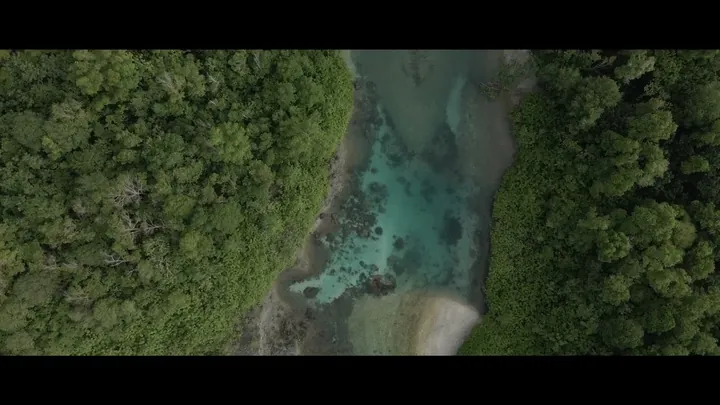
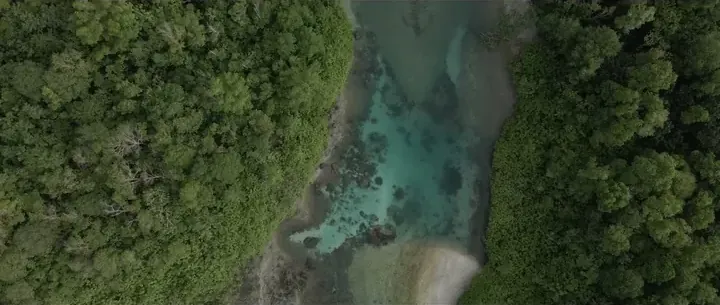
Work section: newest first, matching square thumbnails, even grid
- Cards ordered by date, newest first
- All thumbnails cropped to the same square shape (crop centred on the
  subject; black video bars trimmed from the Victor's Rag still)
- CSS grid so every card is the same height with even 30px gaps
  (3 columns on desktop, 2 on tablet, 1 on phones)

Claude-Session: https://claude.ai/code/session_017hPfgQmK6aBXZxuKyT7LRZ

diff --git a/docs/index.html b/docs/index.html
@@ -199,80 +199,61 @@
             </div>
         </div>
 
-		<div class="row">
-            <div class="col-lg-4 col-md-6 col-sm-6">
-				<div class="blog-item card mb-4 mb-lg-0 border-0">
-					<a href="https://www.tompkinssquare.com/max_ochs_hooray.html" target="_blank" rel="noopener"> <img src="images/work/hooray.webp" width="480" height="480" loading="lazy" decoding="async" alt="Hooray For Another Day album cover" class="img-fluid w-100"> </a>
-					<div class="blog-item-content p-4">
-						<div class="blog-meta mb-2">
-							<span><i class="ti-time mr-2"></i>20 September 2023</span>
-						</div>
-						<h4 class="mt-2 mb-3"><a  href="https://www.tompkinssquare.com/max_ochs_hooray.html" target="_blank" rel="noopener"> Hooray For Another Day</a></h4>
-					</div>
-				</div>
-			</div>
-            <div class="col-lg-4 col-md-6 col-sm-6">
-				<div class="blog-item card mb-4 mb-lg-0 border-0">
-					<a href="https://www.youtube.com/watch?v=dTDibrHiliY" target="_blank" rel="noopener"><img src="images/work/motherless.webp" width="720" height="720" loading="lazy" decoding="async" alt="Drawing of Max Ochs playing guitar" class="img-fluid w-100"></a>
-					<div class="blog-item-content p-4">
-						<div class="blog-meta mb-2">
-							<span><i class="ti-time mr-2"></i>17 December 2016</span>
-							<a>filmed by JP Saladin</a>
-						</div>
-
-						<h4 class="mt-2 mb-3"><a href="https://www.youtube.com/watch?v=dTDibrHiliY" target="_blank" rel="noopener">Motherless Earth</a></h4>
-					</div>
-				</div>
-			</div>
-			<div class="col-lg-4 col-md-6 col-sm-6">
-				<div class="blog-item card mb-4 mb-lg-0 border-0">
-					<a href="https://www.youtube.com/watch?v=QZ7wP932ip0" target="_blank" rel="noopener"> <img src="images/work/surf.webp" width="720" height="405" loading="lazy" decoding="async" alt="Still from Victor's Rag video" class="img-fluid w-100"> </a>
-					<div class="blog-item-content p-4">
-						<div class="blog-meta mb-2">
-							<span><i class="ti-time mr-2"></i>20 September 2023</span>
-						</div>
-						<h4 class="mt-2 mb-3"><a  href="https://www.youtube.com/watch?v=QZ7wP932ip0" target="_blank" rel="noopener"> Max Ochs Victor's Rag</a></h4>
-					</div>
-				</div>
-			</div>
-            <div class="col-lg-4 col-md-6 col-sm-6">
-				<div class="blog-item card mb-4 mb-lg-0 border-0">
-					<a href="https://www.youtube.com/watch?v=qj9S7ztZCXg" target="_blank" rel="noopener"> <img src="images/work/america.webp" width="220" height="165" loading="lazy" decoding="async" alt="Max Ochs in front of an American flag" class="img-fluid w-100"> </a>
-					<div class="blog-item-content p-4">
-						<div class="blog-meta mb-2">
-							<span><i class="ti-time mr-2"></i>9 July 2022</span>
-						</div>
-						<h4 class="mt-2 mb-3"><a  href="https://www.youtube.com/watch?v=qj9S7ztZCXg" target="_blank" rel="noopener"> I Hear America Singing </a></h4>
-					</div>
-				</div>
-			</div>
-			<div class="col-lg-4 col-md-6 col-sm-6">
-				<div class="blog-item card mb-4 mb-lg-0 border-0">
-					<a href="https://frankhudson.org/2019/07/16/dont-die-max-ochs-prayer/" target="_blank" rel="noopener"><img src="images/work/dontdie.webp" width="480" height="408" loading="lazy" decoding="async" alt="Max Ochs performing with guitar" class="img-fluid w-100"></a>
-					<div class="blog-item-content p-4">
-						<div class="blog-meta mb-2">
-							<span><i class="ti-time mr-2"></i>16 July 2019</span>
-							<a>by Frank Hudson</a>
-						</div>
-
-						<h4 class="mt-2 mb-3"><a href="https://frankhudson.org/2019/07/16/dont-die-max-ochs-prayer/" target="_blank" rel="noopener">Don't Die</a></h4>
-					</div>
-				</div>
-			</div>
-            <div class="col-lg-4 col-md-6 col-sm-6">
-				<div class="blog-item card mb-4 mb-lg-0 border-0">
-					<a href="https://newversenews.blogspot.com/2015/08/dont-jewish.html" target="_blank" rel="noopener"> <img src="images/work/dontjewish.webp" width="720" height="464" loading="lazy" decoding="async" alt="Illustration accompanying the poem Don't Jewish" class="img-fluid w-100"> </a>
-					<div class="blog-item-content p-4">
-						<div class="blog-meta mb-2">
-							<span><i class="ti-time mr-2"></i>23 August 2015</span>
-							<a>by The New Verse News</a>
-						</div>
-
-						<h4 class="mt-2 mb-3"><a href="https://newversenews.blogspot.com/2015/08/dont-jewish.html" target="_blank" rel="noopener">DON'T JEWISH</a></h4>
-					</div>
-				</div>
-			</div>
-			
+		<div class="work-grid">
+            <div class="work-cell">
+                <div class="blog-item card work-card border-0 h-100">
+                    <a href="https://www.tompkinssquare.com/max_ochs_hooray.html" target="_blank" rel="noopener"><img class="work-img" src="images/work/hooray.webp" width="480" height="480" loading="lazy" decoding="async" alt="Hooray For Another Day album cover"></a>
+                    <div class="blog-item-content p-4">
+                        <div class="blog-meta mb-2"><span><i class="ti-time mr-2"></i>20 September 2023</span></div>
+                        <h4 class="mt-2 mb-0"><a href="https://www.tompkinssquare.com/max_ochs_hooray.html" target="_blank" rel="noopener">Hooray For Another Day</a></h4>
+                    </div>
+                </div>
+            </div>
+            <div class="work-cell">
+                <div class="blog-item card work-card border-0 h-100">
+                    <a href="https://www.youtube.com/watch?v=QZ7wP932ip0" target="_blank" rel="noopener"><img class="work-img" src="images/work/surf.webp" width="720" height="305" loading="lazy" decoding="async" alt="Still from Victor's Rag video"></a>
+                    <div class="blog-item-content p-4">
+                        <div class="blog-meta mb-2"><span><i class="ti-time mr-2"></i>20 September 2023</span></div>
+                        <h4 class="mt-2 mb-0"><a href="https://www.youtube.com/watch?v=QZ7wP932ip0" target="_blank" rel="noopener">Max Ochs Victor's Rag</a></h4>
+                    </div>
+                </div>
+            </div>
+            <div class="work-cell">
+                <div class="blog-item card work-card border-0 h-100">
+                    <a href="https://www.youtube.com/watch?v=qj9S7ztZCXg" target="_blank" rel="noopener"><img class="work-img" src="images/work/america.webp" width="220" height="165" loading="lazy" decoding="async" alt="Max Ochs in front of an American flag" style="object-position: 85% center;"></a>
+                    <div class="blog-item-content p-4">
+                        <div class="blog-meta mb-2"><span><i class="ti-time mr-2"></i>9 July 2022</span></div>
+                        <h4 class="mt-2 mb-0"><a href="https://www.youtube.com/watch?v=qj9S7ztZCXg" target="_blank" rel="noopener">I Hear America Singing</a></h4>
+                    </div>
+                </div>
+            </div>
+            <div class="work-cell">
+                <div class="blog-item card work-card border-0 h-100">
+                    <a href="https://frankhudson.org/2019/07/16/dont-die-max-ochs-prayer/" target="_blank" rel="noopener"><img class="work-img" src="images/work/dontdie.webp" width="480" height="408" loading="lazy" decoding="async" alt="Max Ochs performing with guitar"></a>
+                    <div class="blog-item-content p-4">
+                        <div class="blog-meta mb-2"><span><i class="ti-time mr-2"></i>16 July 2019</span> <span class="work-credit">&middot; by Frank Hudson</span></div>
+                        <h4 class="mt-2 mb-0"><a href="https://frankhudson.org/2019/07/16/dont-die-max-ochs-prayer/" target="_blank" rel="noopener">Don't Die</a></h4>
+                    </div>
+                </div>
+            </div>
+            <div class="work-cell">
+                <div class="blog-item card work-card border-0 h-100">
+                    <a href="https://www.youtube.com/watch?v=dTDibrHiliY" target="_blank" rel="noopener"><img class="work-img" src="images/work/motherless.webp" width="720" height="720" loading="lazy" decoding="async" alt="Drawing of Max Ochs playing guitar"></a>
+                    <div class="blog-item-content p-4">
+                        <div class="blog-meta mb-2"><span><i class="ti-time mr-2"></i>17 December 2016</span> <span class="work-credit">&middot; filmed by JP Saladin</span></div>
+                        <h4 class="mt-2 mb-0"><a href="https://www.youtube.com/watch?v=dTDibrHiliY" target="_blank" rel="noopener">Motherless Earth</a></h4>
+                    </div>
+                </div>
+            </div>
+            <div class="work-cell">
+                <div class="blog-item card work-card border-0 h-100">
+                    <a href="https://newversenews.blogspot.com/2015/08/dont-jewish.html" target="_blank" rel="noopener"><img class="work-img" src="images/work/dontjewish.webp" width="720" height="464" loading="lazy" decoding="async" alt="Illustration accompanying the poem Don't Jewish" style="object-position: 70% center;"></a>
+                    <div class="blog-item-content p-4">
+                        <div class="blog-meta mb-2"><span><i class="ti-time mr-2"></i>23 August 2015</span> <span class="work-credit">&middot; by The New Verse News</span></div>
+                        <h4 class="mt-2 mb-0"><a href="https://newversenews.blogspot.com/2015/08/dont-jewish.html" target="_blank" rel="noopener">DON'T JEWISH</a></h4>
+                    </div>
+                </div>
+            </div>
 		</div>
 	</div>
 </section>

diff --git a/docs/css/style.css b/docs/css/style.css
@@ -1086,3 +1086,32 @@ CONTACT PAGE
   color: #8f6b00;
   text-decoration: underline;
 }
+
+/* Work section: matching square thumbnails, equal-height cards, even gaps */
+.work-grid {
+  display: grid;
+  grid-template-columns: repeat(3, minmax(0, 1fr));
+  grid-auto-rows: 1fr;
+  gap: 30px;
+}
+@media (max-width: 991px) {
+  .work-grid {
+    grid-template-columns: repeat(2, minmax(0, 1fr));
+  }
+}
+@media (max-width: 575px) {
+  .work-grid {
+    grid-template-columns: minmax(0, 1fr);
+    grid-auto-rows: auto;
+  }
+}
+.work-img {
+  display: block;
+  width: 100%;
+  height: auto;
+  aspect-ratio: 1 / 1;
+  object-fit: cover;
+}
+.work-credit {
+  margin-left: 4px;
+}
